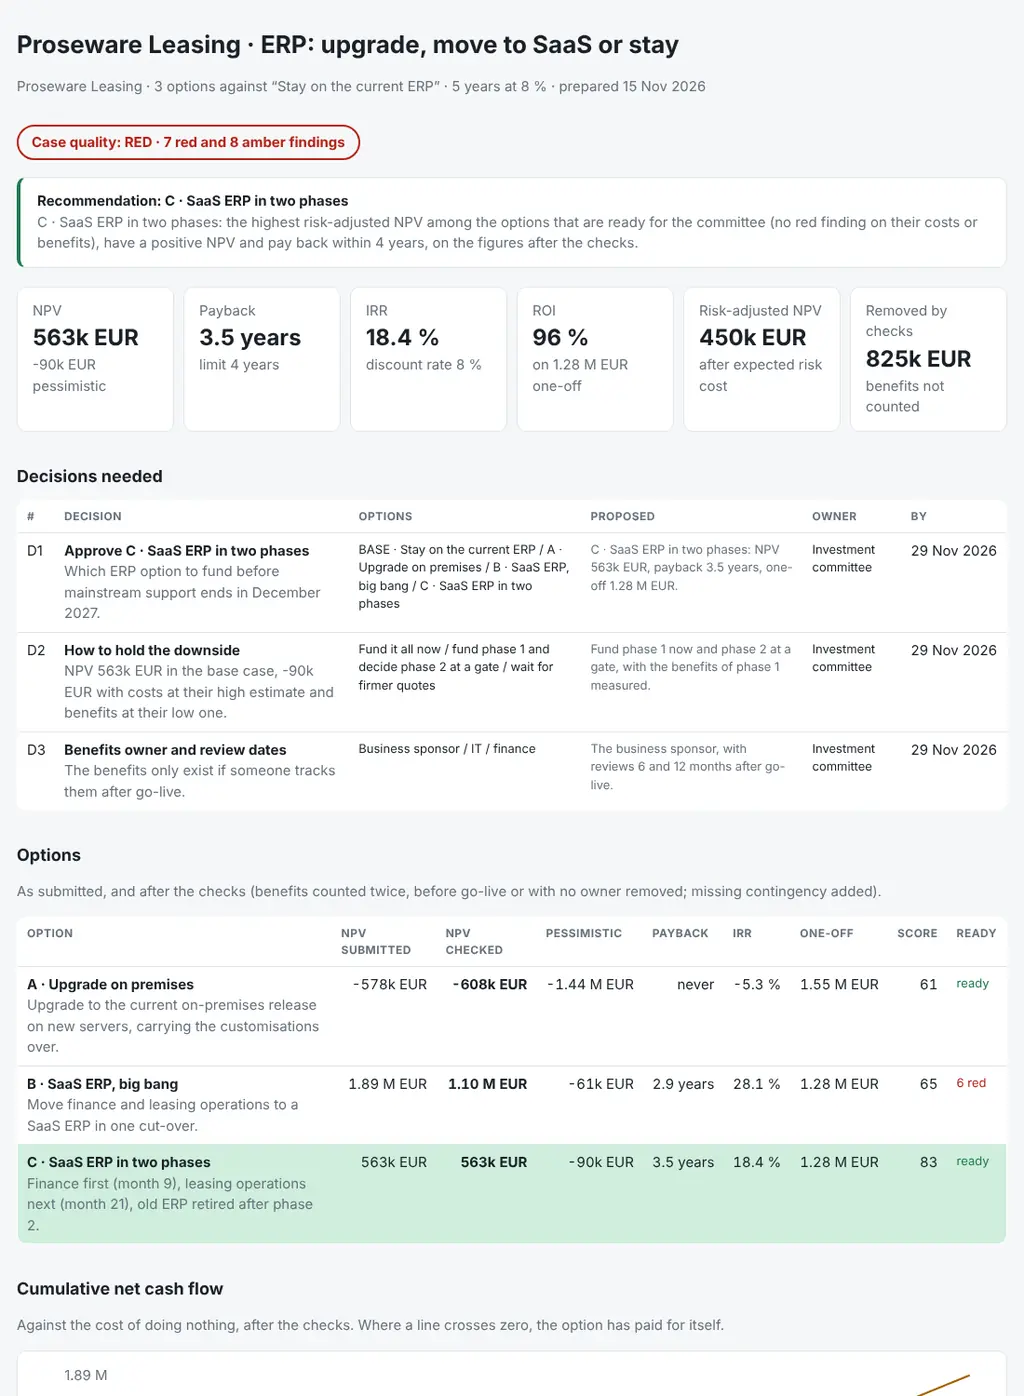
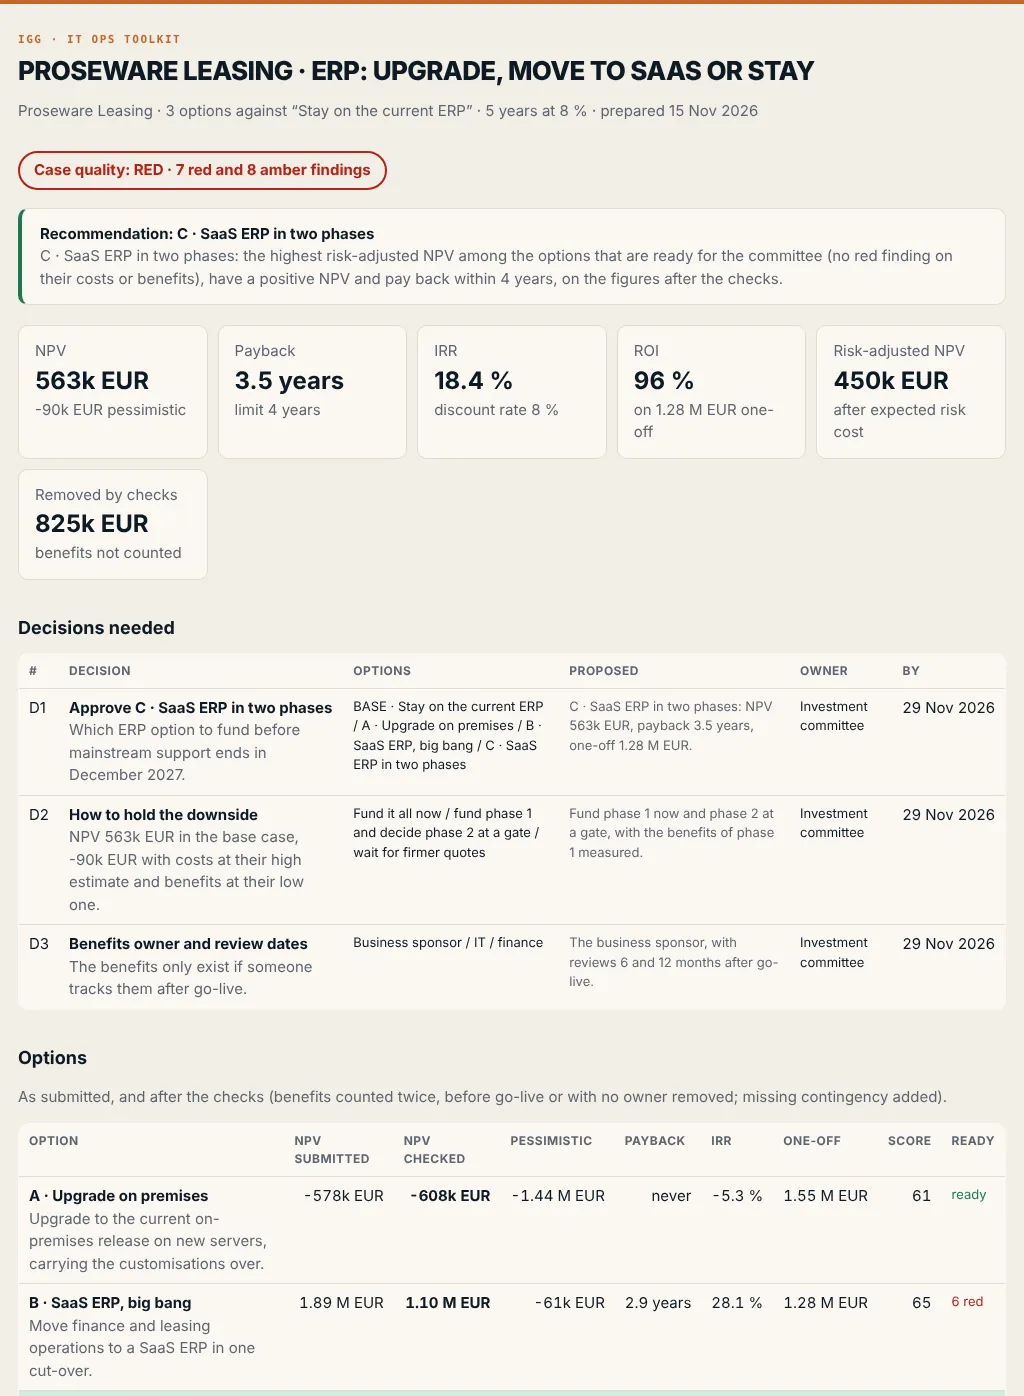
Report: IGG colours (paper, ink and the orange accent) and a new screenshot

diff --git a/bizcase/report.py b/bizcase/report.py
@@ -226,11 +226,11 @@ def paper_md(d: Data, rv: dict, title: str) -> str:
 # ---------------------------------------------------------------- html
 
 CSS = """
-:root{--bg:#f6f7f8;--card:#fff;--ink:#1b2128;--muted:#66717c;--line:#e2e5e9;--ok:#1e7a4c;--warn:#a46200;--bad:#b42318;--info:#0b6bcb;
---g:#cfeedd;--a:#fbe6bd;--r:#f8d2cd;--n:#eef0f2;--c1:#0b6bcb;--c2:#a46200;--c3:#1e7a4c;--c4:#7a4cc2}
-@media (prefers-color-scheme:dark){:root{--bg:#13171b;--card:#1b2127;--ink:#e7eaee;--muted:#9aa5b0;--line:#2b333b;--ok:#4cc38a;--warn:#f0a83a;
---bad:#f2685c;--info:#5aa9f0;--g:#173527;--a:#3d2f12;--r:#45201d;--n:#232a31;--c1:#5aa9f0;--c2:#f0a83a;--c3:#4cc38a;--c4:#b08cf0}}
-*{box-sizing:border-box}body{margin:0;background:var(--bg);color:var(--ink);font:15px/1.5 system-ui,-apple-system,Segoe UI,sans-serif}
+:root{--bg:#f2eee6;--card:#fbf8f3;--ink:#0e1a24;--muted:#5d6670;--line:#e2dccf;--ok:#1e7a4c;--warn:#a46200;--bad:#b42318;--info:#1f5f8b;
+--g:#cfeedd;--a:#fbe6bd;--r:#f8d2cd;--n:#e8e2d6;--c1:#0b6bcb;--c2:#a46200;--c3:#1e7a4c;--c4:#7a4cc2}
+@media (prefers-color-scheme:dark){:root{--bg:#0e1a24;--card:#142331;--ink:#f2eee6;--muted:#a9b3bb;--line:#24364a;--ok:#4cc38a;--warn:#f0a83a;
+--bad:#f2685c;--info:#5aa9f0;--g:#173527;--a:#3d2f12;--r:#45201d;--n:#1b2b3b;--c1:#5aa9f0;--c2:#f0a83a;--c3:#4cc38a;--c4:#b08cf0}}
+*{box-sizing:border-box}body{border-top:4px solid #c4672b}h1{font-weight:800;letter-spacing:-.025em;text-transform:uppercase;line-height:1.05}h1::before{content:"IGG · IT Ops toolkit";display:block;font:600 11px/1.4 ui-monospace,SFMono-Regular,Menlo,monospace;letter-spacing:.14em;text-transform:uppercase;color:#c4672b;margin-bottom:10px}body{margin:0;background:var(--bg);color:var(--ink);font:15px/1.5 system-ui,-apple-system,Segoe UI,sans-serif}
 main{max-width:1100px;margin:0 auto;padding:28px 18px 60px}h1{font-size:26px;margin:0 0 4px}h2{font-size:18px;margin:34px 0 12px}
 .muted{color:var(--muted)}.tiles{display:grid;grid-template-columns:repeat(auto-fit,minmax(160px,1fr));gap:10px;margin-top:20px}
 .tile{background:var(--card);border:1px solid var(--line);border-radius:10px;padding:14px 16px}.tile b{display:block;font-size:24px}
